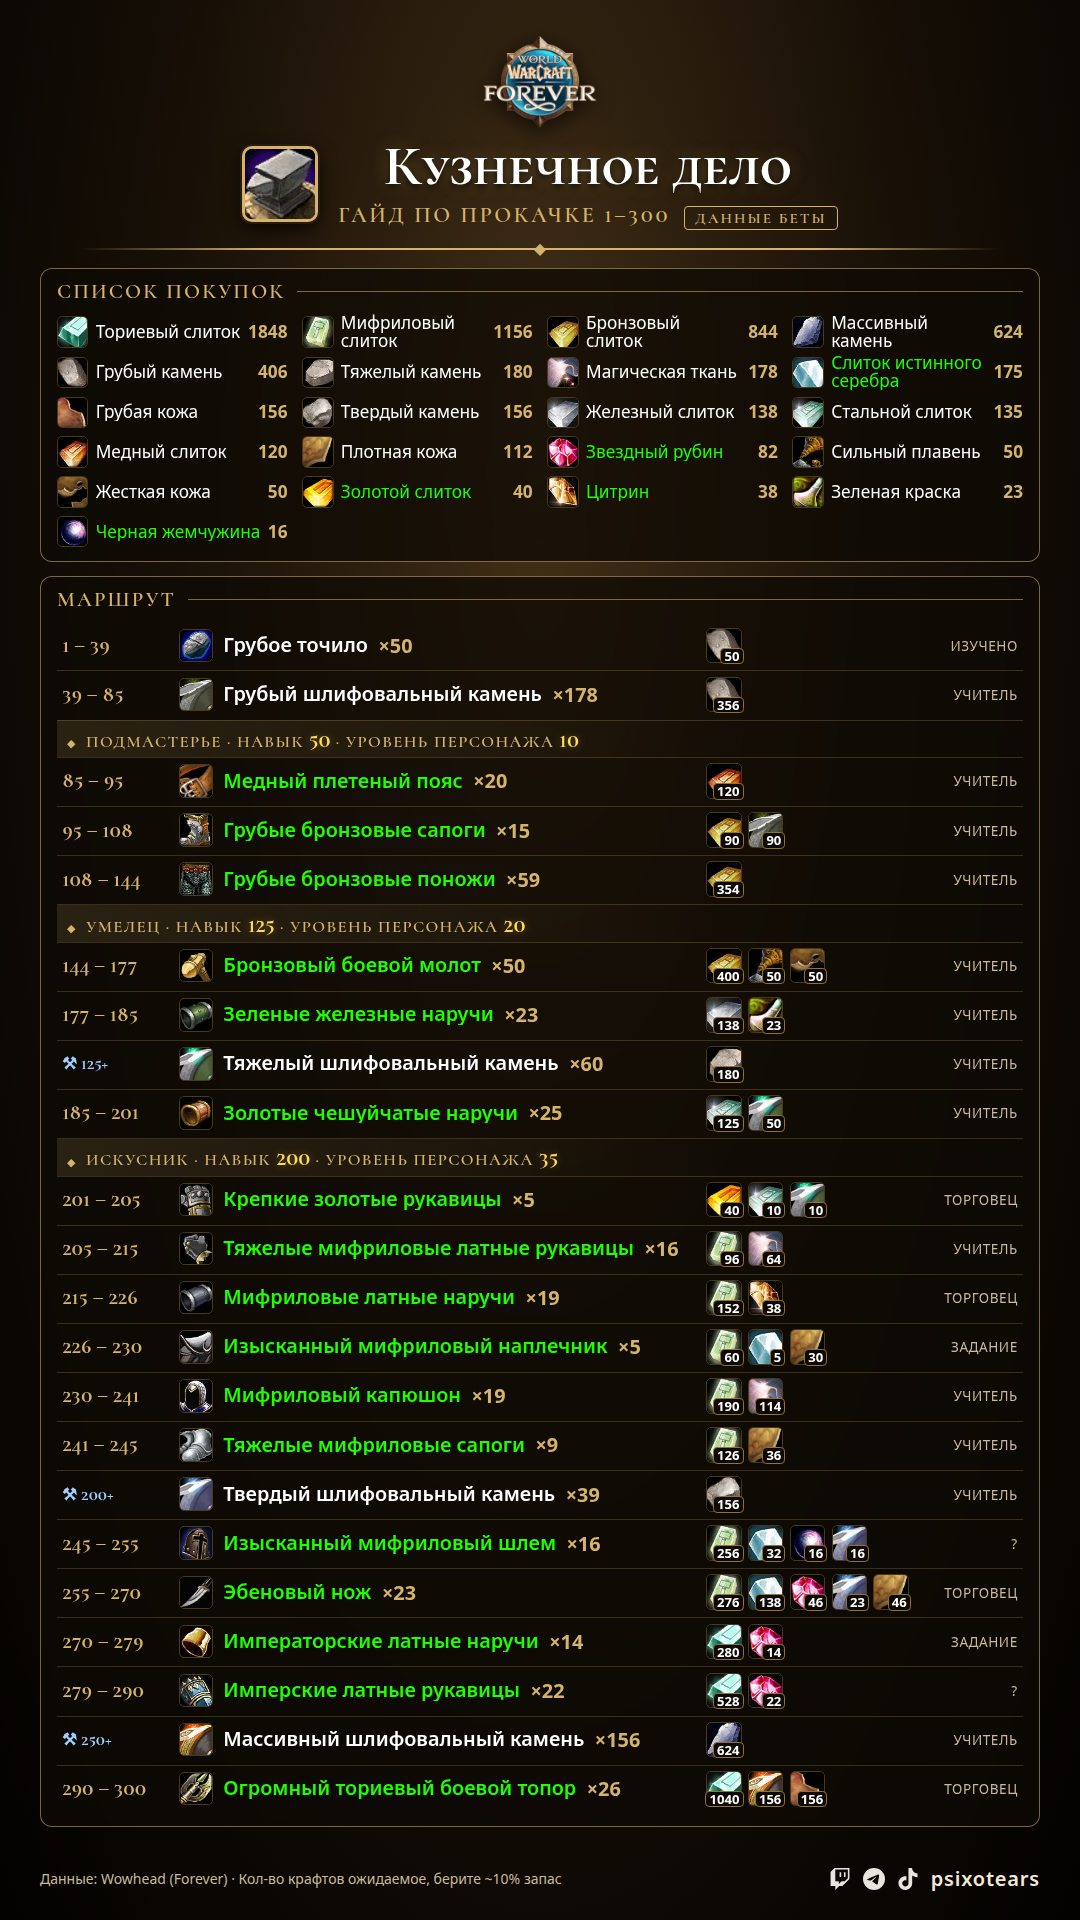
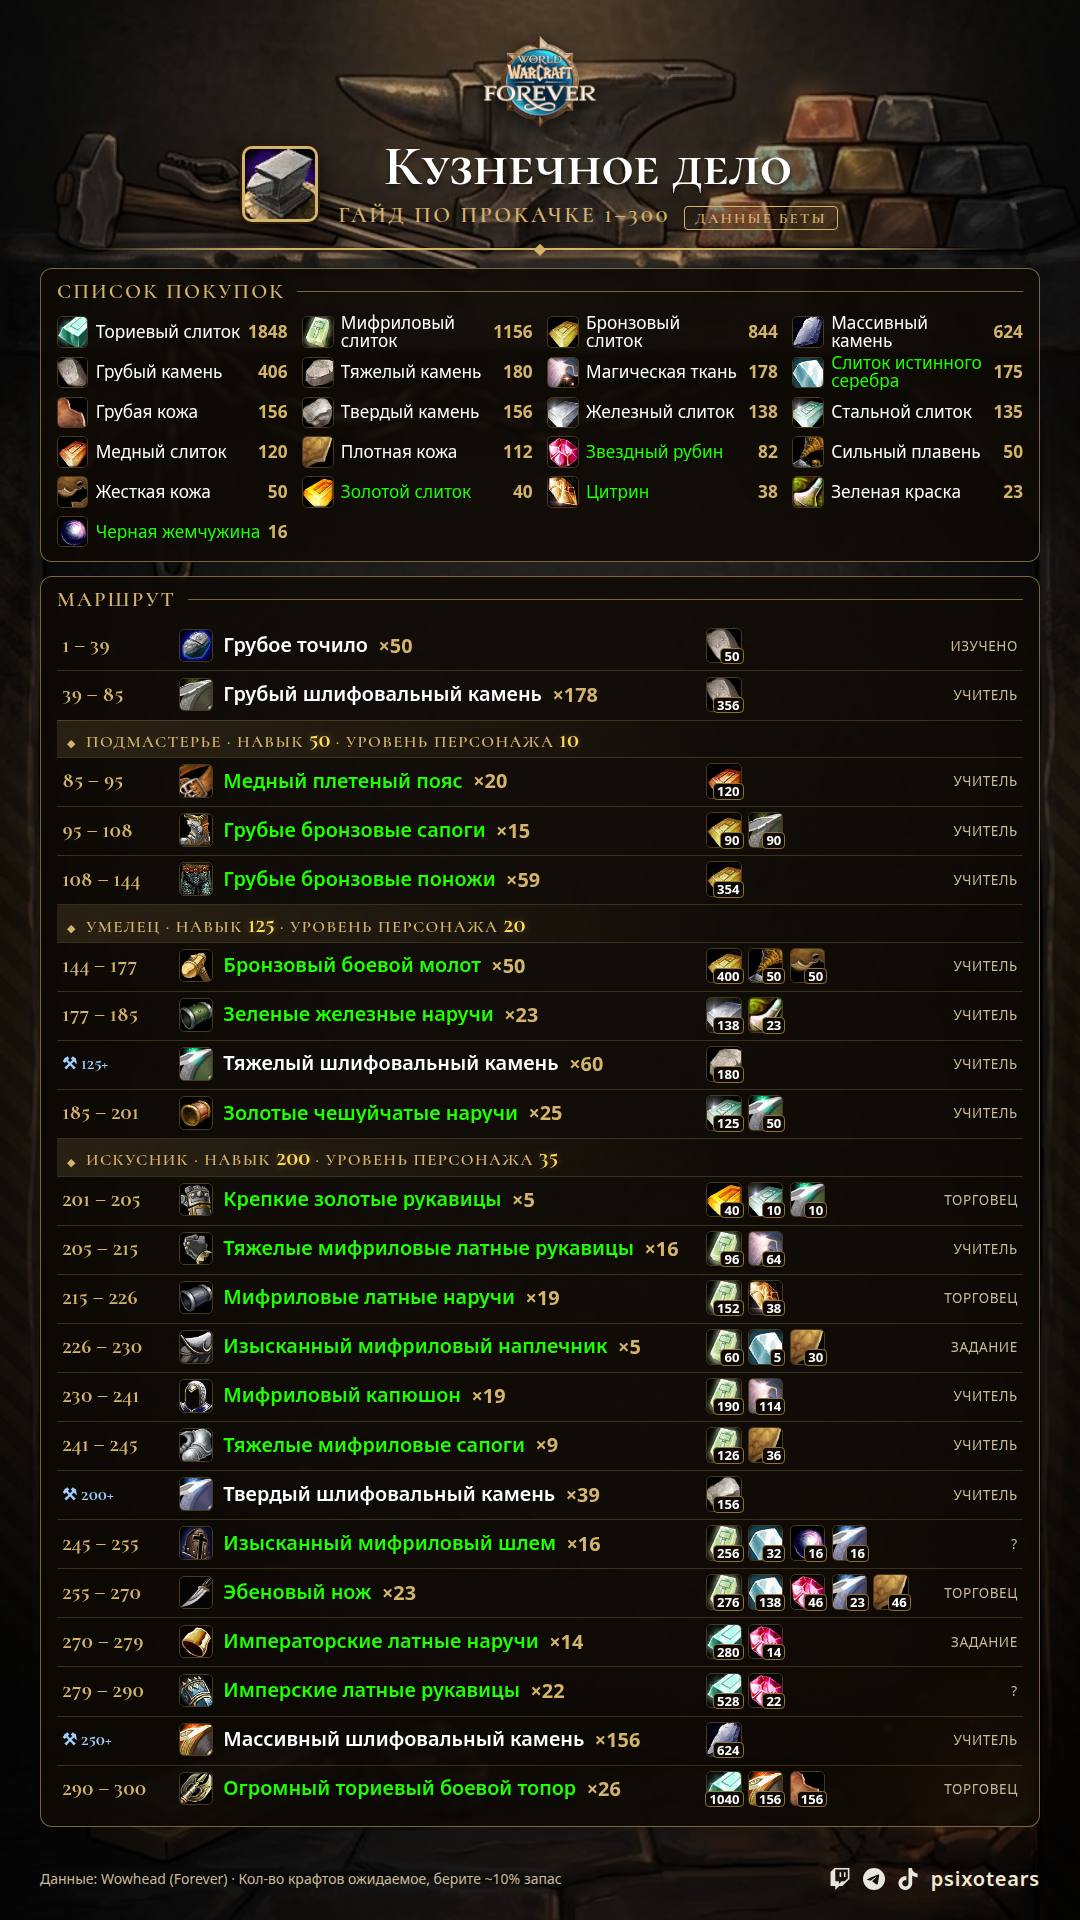
Render first five cards on generated backgrounds, store backgrounds
Claude-Session: https://claude.ai/code/session_012e8LnHD2AptEEnhumMxWH2

diff --git a/wow-cards/pipeline/render.py b/wow-cards/pipeline/render.py
@@ -39,7 +39,7 @@ BODY_FONT = {'en': "'Noto Sans', sans-serif", 'ru': "'Noto Sans', sans-serif", '
 CSS = """
 @import url('../../fonts/fonts.css');
 *{box-sizing:border-box;margin:0;padding:0}
-:root{--s:1;--gold:#d4b46a;--gold2:#8f7434;--ink:#f3e9d2;--dim:#c9bb9a;--panel:rgba(14,9,4,.74);--line:rgba(212,180,106,.55)}
+:root{--s:1;--gold:#d4b46a;--gold2:#8f7434;--ink:#f3e9d2;--dim:#c9bb9a;--panel:rgba(14,9,4,.8);--line:rgba(212,180,106,.55)}
 html,body{width:1080px;height:1920px;overflow:hidden;background:#0b0704}
 body{font-family:BODYFONT;color:var(--ink);position:relative}
 .bg{position:absolute;inset:0;background:url('BG') center/cover no-repeat}
